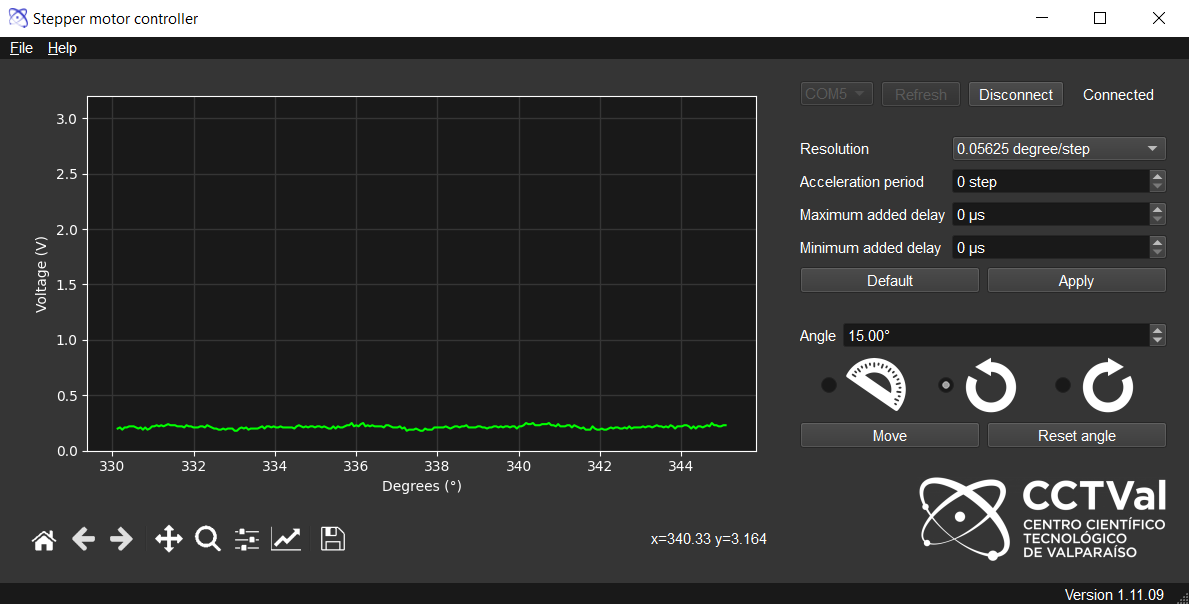
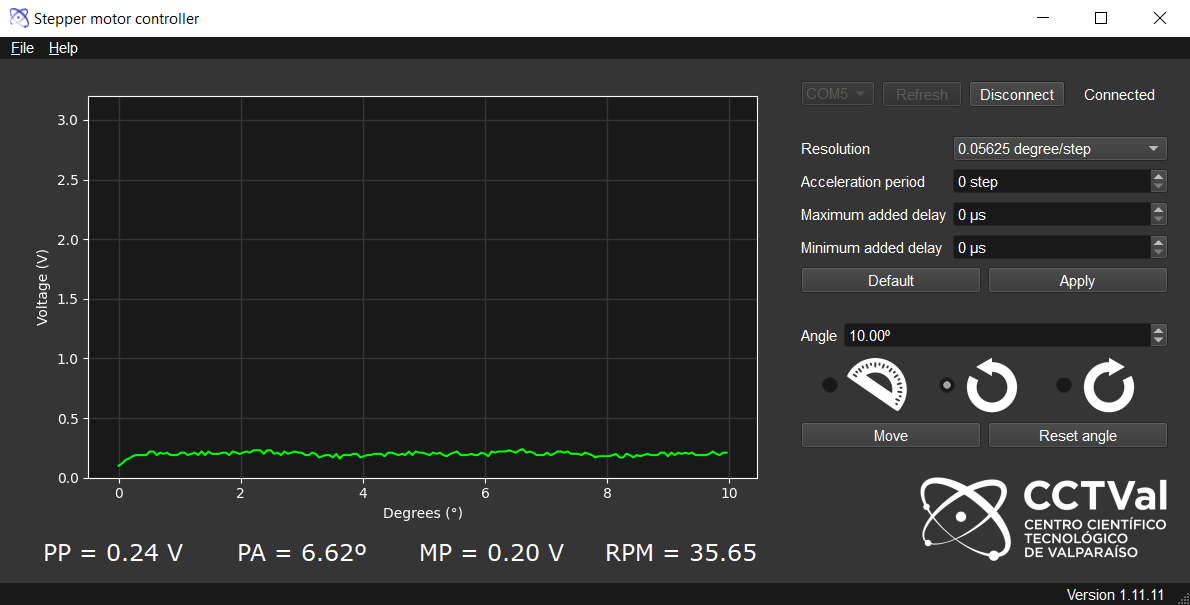
added statistic below plot. Debugging with a signal generator is necessary

diff --git a/GUI/plotWidget.py b/GUI/plotWidget.py
@@ -1,7 +1,8 @@
 import sys
-from PySide2.QtWidgets import QWidget, QVBoxLayout, QApplication
+from PySide2 import QtGui
+from PySide2.QtWidgets import QWidget, QVBoxLayout, QApplication, QHBoxLayout, QLabel
 from PySide2.QtCore import  Qt
-from PySide2.QtGui import QPalette, QColor
+from PySide2.QtGui import QPalette, QColor, QFont
 
 import matplotlib
 matplotlib.use('Qt5Agg')
@@ -28,17 +29,44 @@ class plotWidget(QWidget):
 		# Widgets
 		self.canvas_wdg = figCanvas()
 		self.toolbar_wdg = NavigationToolbar(self.canvas_wdg)
+		self.pp_label = QLabel(f'PP = {0.0:.2f} V')
+		self.pa_label = QLabel(f'PA = {0.0:.2f}º')
+		self.mp_label = QLabel(f'MP = {0.0:.2f} V')
+		self.rpm_label = QLabel(f'RPM = {0.0}')
+		self.pp_label.setAlignment(Qt.AlignCenter)
+		self.pa_label.setAlignment(Qt.AlignCenter)
+		self.mp_label.setAlignment(Qt.AlignCenter)
+		self.rpm_label.setAlignment(Qt.AlignCenter)
+		style_label_string = 'QLabel { color : #FFFFFF; font: 75 14pt "Verdana"}'
+		self.pp_label.setStyleSheet(style_label_string)
+		self.pa_label.setStyleSheet(style_label_string)
+		self.mp_label.setStyleSheet(style_label_string)
+		self.rpm_label.setStyleSheet(style_label_string)
+		label_max_height = 18
+		self.pp_label.setMaximumHeight(label_max_height)
+		self.pa_label.setMaximumHeight(label_max_height)
+		self.mp_label.setMaximumHeight(label_max_height)
+		self.rpm_label.setMaximumHeight(label_max_height)
 
 		# Layout
-		layout = QVBoxLayout()
-		layout.addWidget(self.canvas_wdg)
-		layout.addWidget(self.toolbar_wdg)
+		hlayout = QHBoxLayout()
+		hlayout.addWidget(self.pp_label)
+		hlayout.addWidget(self.pa_label)
+		hlayout.addWidget(self.mp_label)
+		hlayout.addWidget(self.rpm_label)
 
-		self.setLayout(layout)
+
+		vlayout = QVBoxLayout()
+		vlayout.addWidget(self.canvas_wdg)
+		vlayout.addLayout(hlayout)
+		# layout.addWidget(self.toolbar_wdg)
+		# vlayout.addStretch()
+
+		self.setLayout(vlayout)
 	
 		self.setMinimumWidth(700)
 
-		self.updatePlot([], 0, 'l', 100)
+		self.parent().data_xaxis = self.updatePlot([], 0, 'l', 100)
 
 	def updatePlot(self, data, angle, direction_char, N_rev):
 		# scale_factor = 360./N_rev
@@ -47,13 +75,15 @@ class plotWidget(QWidget):
 		angle_scale_factor = 360./N_rev_max
 		self.canvas_wdg.axes.cla()
 		if direction_char == 'l': # positive
+			data_xaxis = np.linspace((angle-len(data) *plot_scale_factor)*angle_scale_factor, angle*angle_scale_factor, len(data))
 			self.canvas_wdg.axes.plot( 
-				np.linspace((angle-len(data) *plot_scale_factor)*angle_scale_factor, (angle)*angle_scale_factor, len(data)), 
+				data_xaxis, 
 				data, 
 				color='lime')
 		else: # negative
+			data_xaxis = np.linspace((angle + len(data) *plot_scale_factor)*angle_scale_factor, angle*angle_scale_factor, len(data))
 			self.canvas_wdg.axes.plot( 
-				np.linspace((angle + len(data) *plot_scale_factor)*angle_scale_factor, angle*angle_scale_factor, len(data)), 
+				data_xaxis, 
 				data, 
 				color='lime')
 			self.canvas_wdg.axes.invert_xaxis()
@@ -75,6 +105,8 @@ class plotWidget(QWidget):
 		self.canvas_wdg.axes.figure.gca().set_ylim(0, 3.2)
 		self.canvas_wdg.axes.grid(color = '#353535', linewidth = 1)
 		self.canvas_wdg.draw()
+
+		return data_xaxis
 
 def darkMode():
     # Dark Theme

diff --git a/GUI/angleWidget.py b/GUI/angleWidget.py
@@ -6,6 +6,8 @@ from PySide2.QtGui import QIcon, QKeySequence
 from math import floor
 from messageBox import receivedSuccessBox
 
+import numpy as np
+
 # Constants for operation
 # -> Angle parameters: degree
 LOWEST_DEG = 0 
@@ -138,7 +140,17 @@ class angleWidget(QWidget):
 				csvFile.write(log_text)
 
 		# PLOT
-		self.parent().plot_wdg.updatePlot(float_list, int(angle), direction_char, int(self.parent().param_wdg.param_dict['Nrev']))		
+		data_xaxis = self.parent().plot_wdg.updatePlot(float_list, int(angle), direction_char, int(self.parent().param_wdg.param_dict['Nrev']))		
+
+		# COMPUTE DATA STATISTICS (this section MUST be after updatePlot)
+		pp, pa = self.computePeakPower(float_list, data_xaxis)
+		mp = self.computeMeanPower(float_list)
+		rpm = self.computeRPM(int(mean_time_total))
+
+		self.parent().plot_wdg.pp_label.setText(f'PP = {pp:.2f} V')
+		self.parent().plot_wdg.pa_label.setText(f'PA = {pa:.2f}º')
+		self.parent().plot_wdg.mp_label.setText(f'MP = {mp:.2f} V')
+		self.parent().plot_wdg.rpm_label.setText(f'RPM = {rpm:.1f}')
 
 	def sendReset(self):
 		self.parent().connection_wdg.send2COM("reset")	
@@ -170,16 +182,39 @@ class angleWidget(QWidget):
 	def colorSpin(self, spin, color='#f86e6c'):
 		spin.setStyleSheet(f'background-color : {color};')
 
-	def pressA(self):
-		self.a_radio.setChecked(True)
+	# def pressA(self):
+	# 	self.a_radio.setChecked(True)
 
-	def pressL(self):
-		self.l_radio.setChecked(True)
+	# def pressL(self):
+	# 	self.l_radio.setChecked(True)
 
-	def pressR(self):
-		self.r_radio.setChecked(True)
+	# def pressR(self):
+	# 	self.r_radio.setChecked(True)
 
-	# def saveCSV(self, data_string)
+	def computePeakPower(self, data, data_xaxis):
+		if data:
+			peak_power = np.max(data)
+			peak_angle = data_xaxis[np.argmax(data)]
+			return peak_power, peak_angle
+		else:
+			return 0, 0 
+
+	def computeMeanPower(self, data):
+		if data:
+			mean_power = np.average(data)
+			return mean_power
+		else:
+			return 0
+
+	def computeRPM(self, mean_step_time):
+		if mean_step_time != 0:
+			N_max = 6400 	#step/rev, max resolution
+			rpm = 10**6 * 60 / (N_max * mean_step_time)
+			return rpm
+		else:
+			return 0
+
+	
 
 if __name__ == '__main__':
 	app = QApplication([])

diff --git a/GUI/mainWindow.py b/GUI/mainWindow.py
@@ -38,7 +38,7 @@ class Window(QMainWindow):
 
 		# Status Bar
 		self.status_bar = self.statusBar()
-		self.permanent_message = QLabel('Version 1.11.10')
+		self.permanent_message = QLabel('Version 1.11.11')
 		self.permanent_message.setAlignment(Qt.AlignRight)
 		self.status_bar.addPermanentWidget(self.permanent_message)
 

diff --git a/GUI/centralWidget.py b/GUI/centralWidget.py
@@ -38,7 +38,6 @@ class centralWidget(QWidget):
 		#Objects 
 		self.COM = None
 
-
 		# Widgets
 		# -> Serial Connection Widget
 		self.connection_wdg = connectionWidget(self)

diff --git a/README.md b/README.md
@@ -2,22 +2,24 @@
 -------
 ## TO DO
 
-### Extras
-- [ ] Migrar PyOne dark a PySide2
 
+### IMPORTANTE:
+- [ ] Revisar que el tiempo promedio por step medido y enviaod por la placa sea el correcto, ya que se usa para calcular las RPM
+- [ ] Corregir problema que probablemente va a surgir en el argumento del peak power, dado que en cierto caso en el plot, se invierte el xaxis
+
+### Extras
 - [ ] Guardar datos en tarjeta SD
 
 ### Escritura de CSV/JSON
 - [ ] Agregar opción de escribir como JSON
 ----------------------------------------------------------
 ### In Progress
-- [x] corregir bug current position
-- [x] corregir bug sentido positivo (left)(en plot se suma 1 que no es necesario)
-
-- [x] corregir escalamiento en el plot (len(values))
-- [x] Cambiar que cuando se conecte, se resetee el angulo cero
-
-- [ ] Agregar información sobre plot (peak power, peak angle, mean power, RPM)
+- [x] Agregar información sobre plot (peak power, peak angle, mean power, RPM)
+    - [x] Se debe corregir peak angle con información del plot
+- [ ] Migrar PyOne dark a PySide2
+- [ ] Migrar proyecto a pyonedark
+- [ ] Agregar en csv información de plot : resolución angular y caracter de dirección ('l' o 'r')
+- [ ] Agregar funcionalidad que permita leer un archivo CSV o JSON y plotear su contenido (en otra pestaña dentro de la misma GUI)
 ------------------------------------------------------------------------
 #### DONE
 
